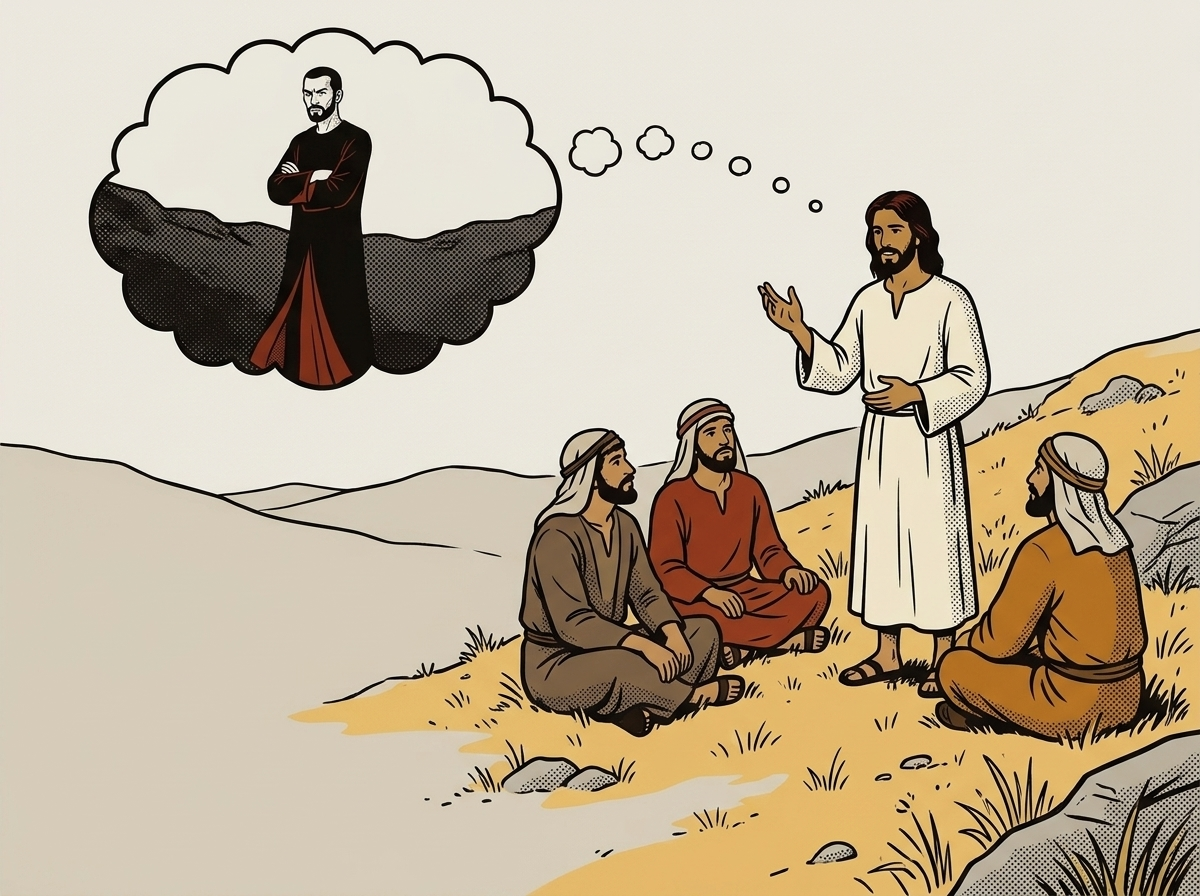
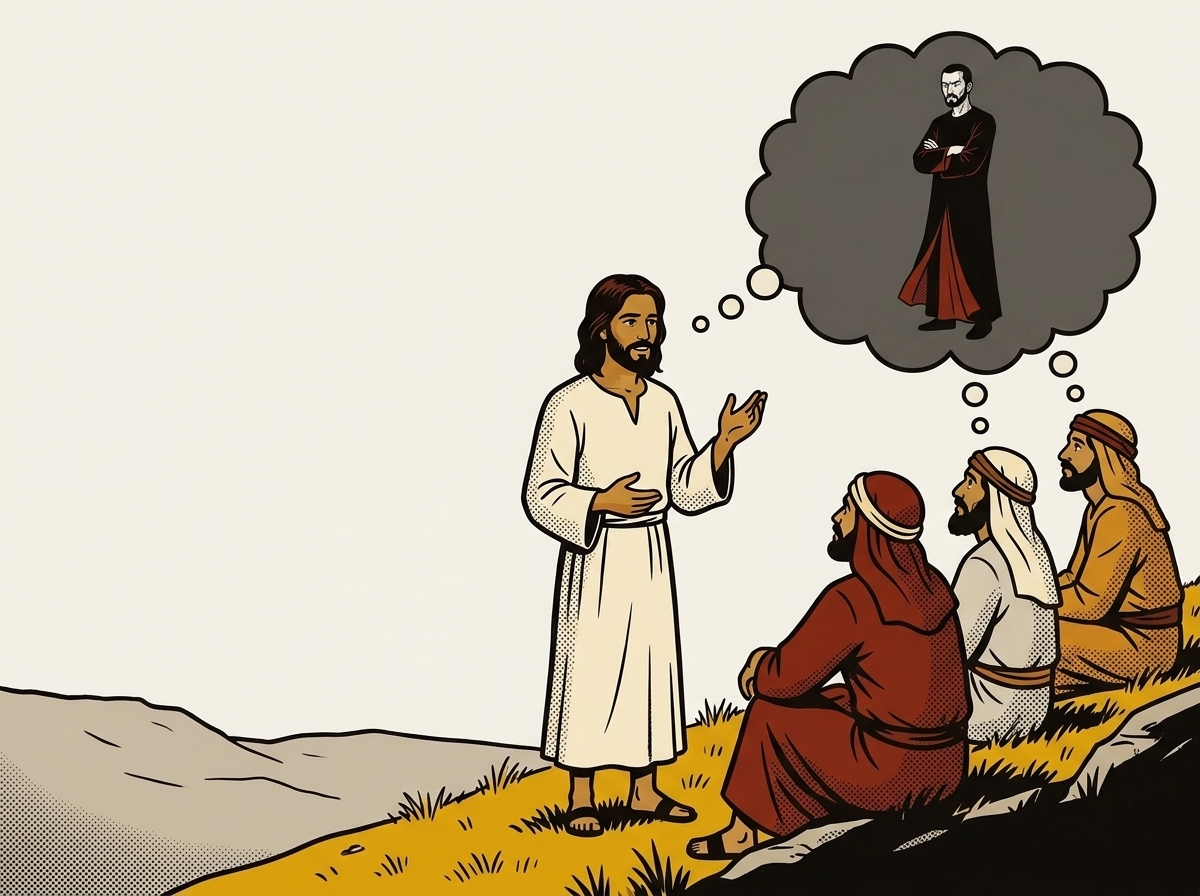
Satan New Testament panel: thought cloud clear of the narration label (#252)
At 375px the label covered the figure's face in the cloud; redrawn with
the cloud upper right. The NT manifest records the --pro model for
today.png and asks for the single brackets it drew.

diff --git a/hugo/layouts/partials/scholarship-custom/new-testament-later-additions.html b/hugo/layouts/partials/scholarship-custom/new-testament-later-additions.html
@@ -6,7 +6,7 @@
   adultery, a story added to John; Erasmus's desk in 1516 with a few late
   manuscripts (hands only, never a portrait); the same desk in 1522 as a newly
   written manuscript brings in 1 John 5:7–8; the 1611 translators; and, across
-  the bottom, a modern Bible with a passage in double brackets.
+  the bottom, a modern Bible with a passage in brackets.
 
   A view of the page's reviewed statements `why-added` (short; Holmes's
   Matt 18:11 and John 5:3b–4), `mark-manuscripts` and `mark-ending` (shorts),
